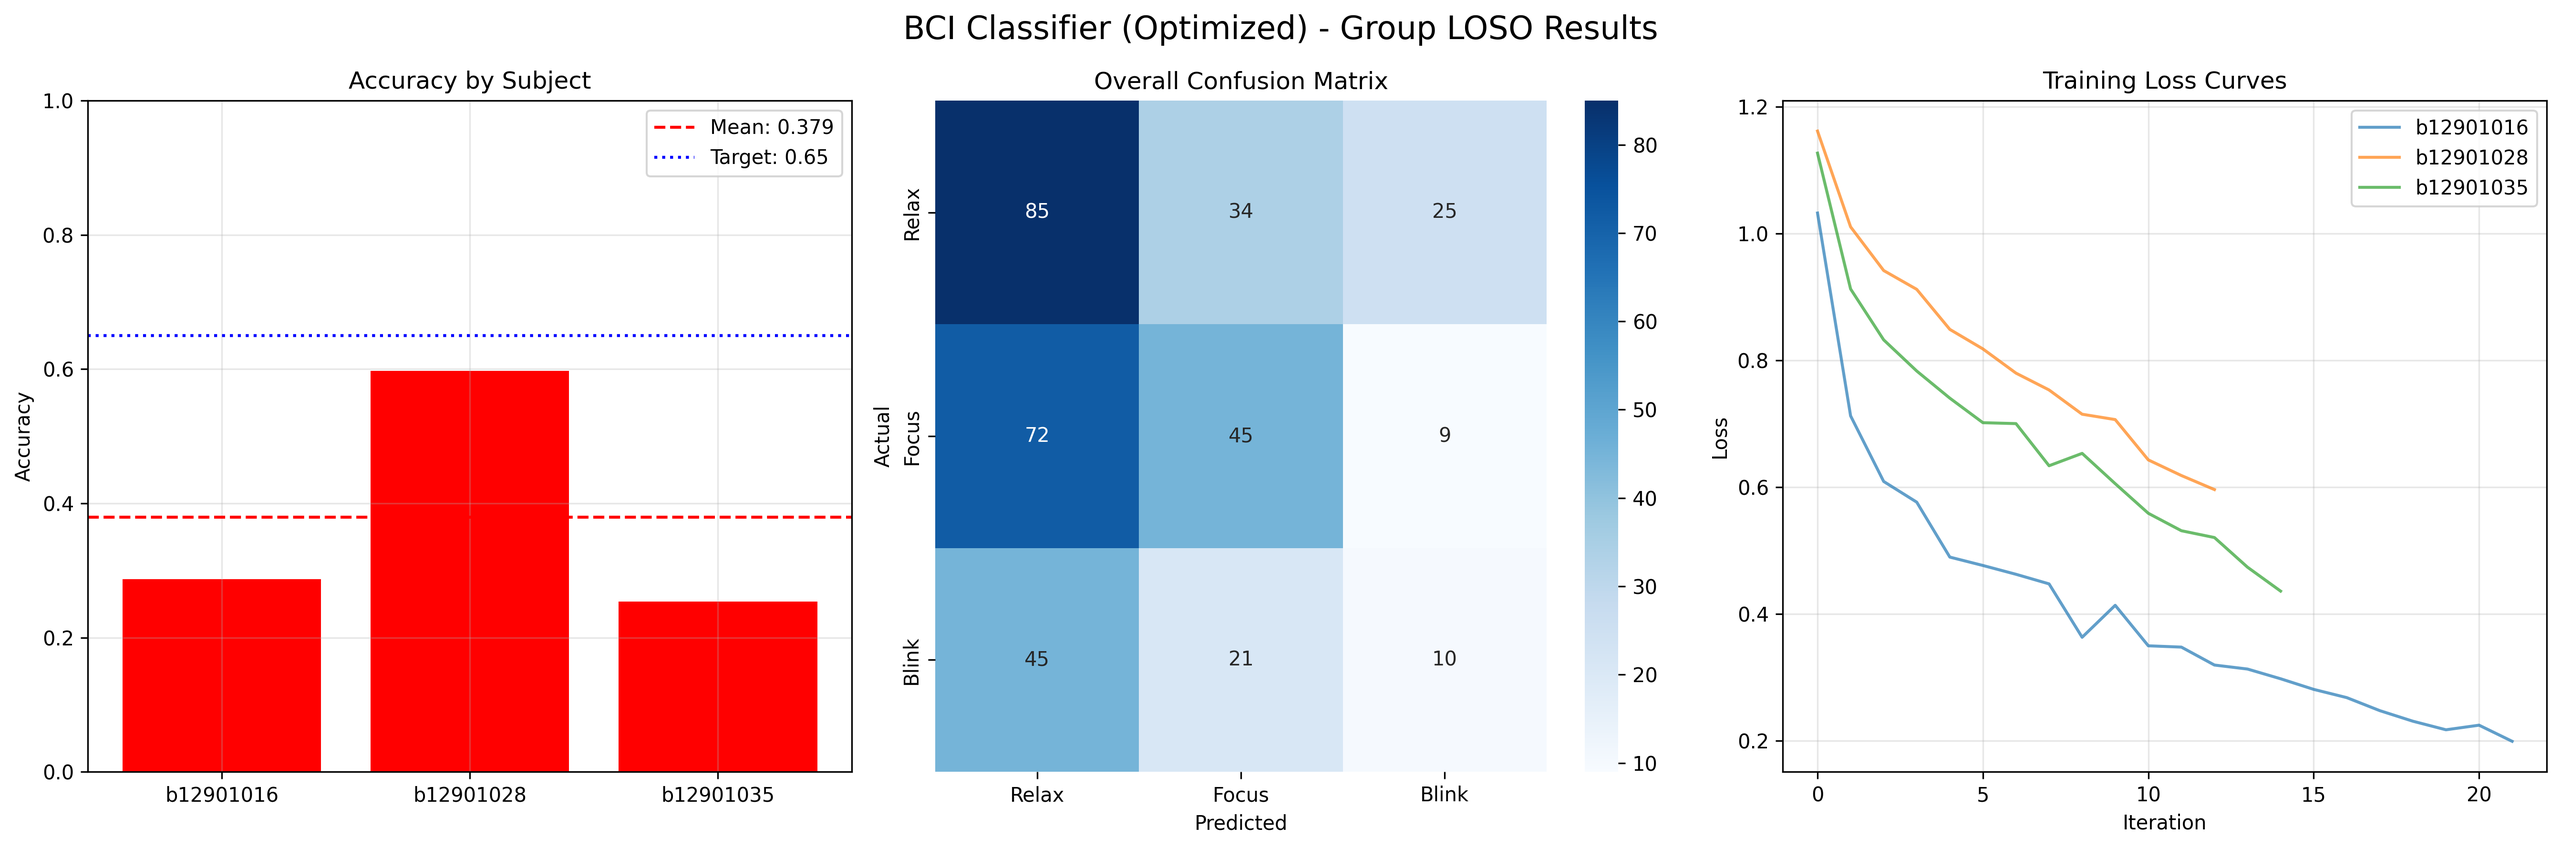
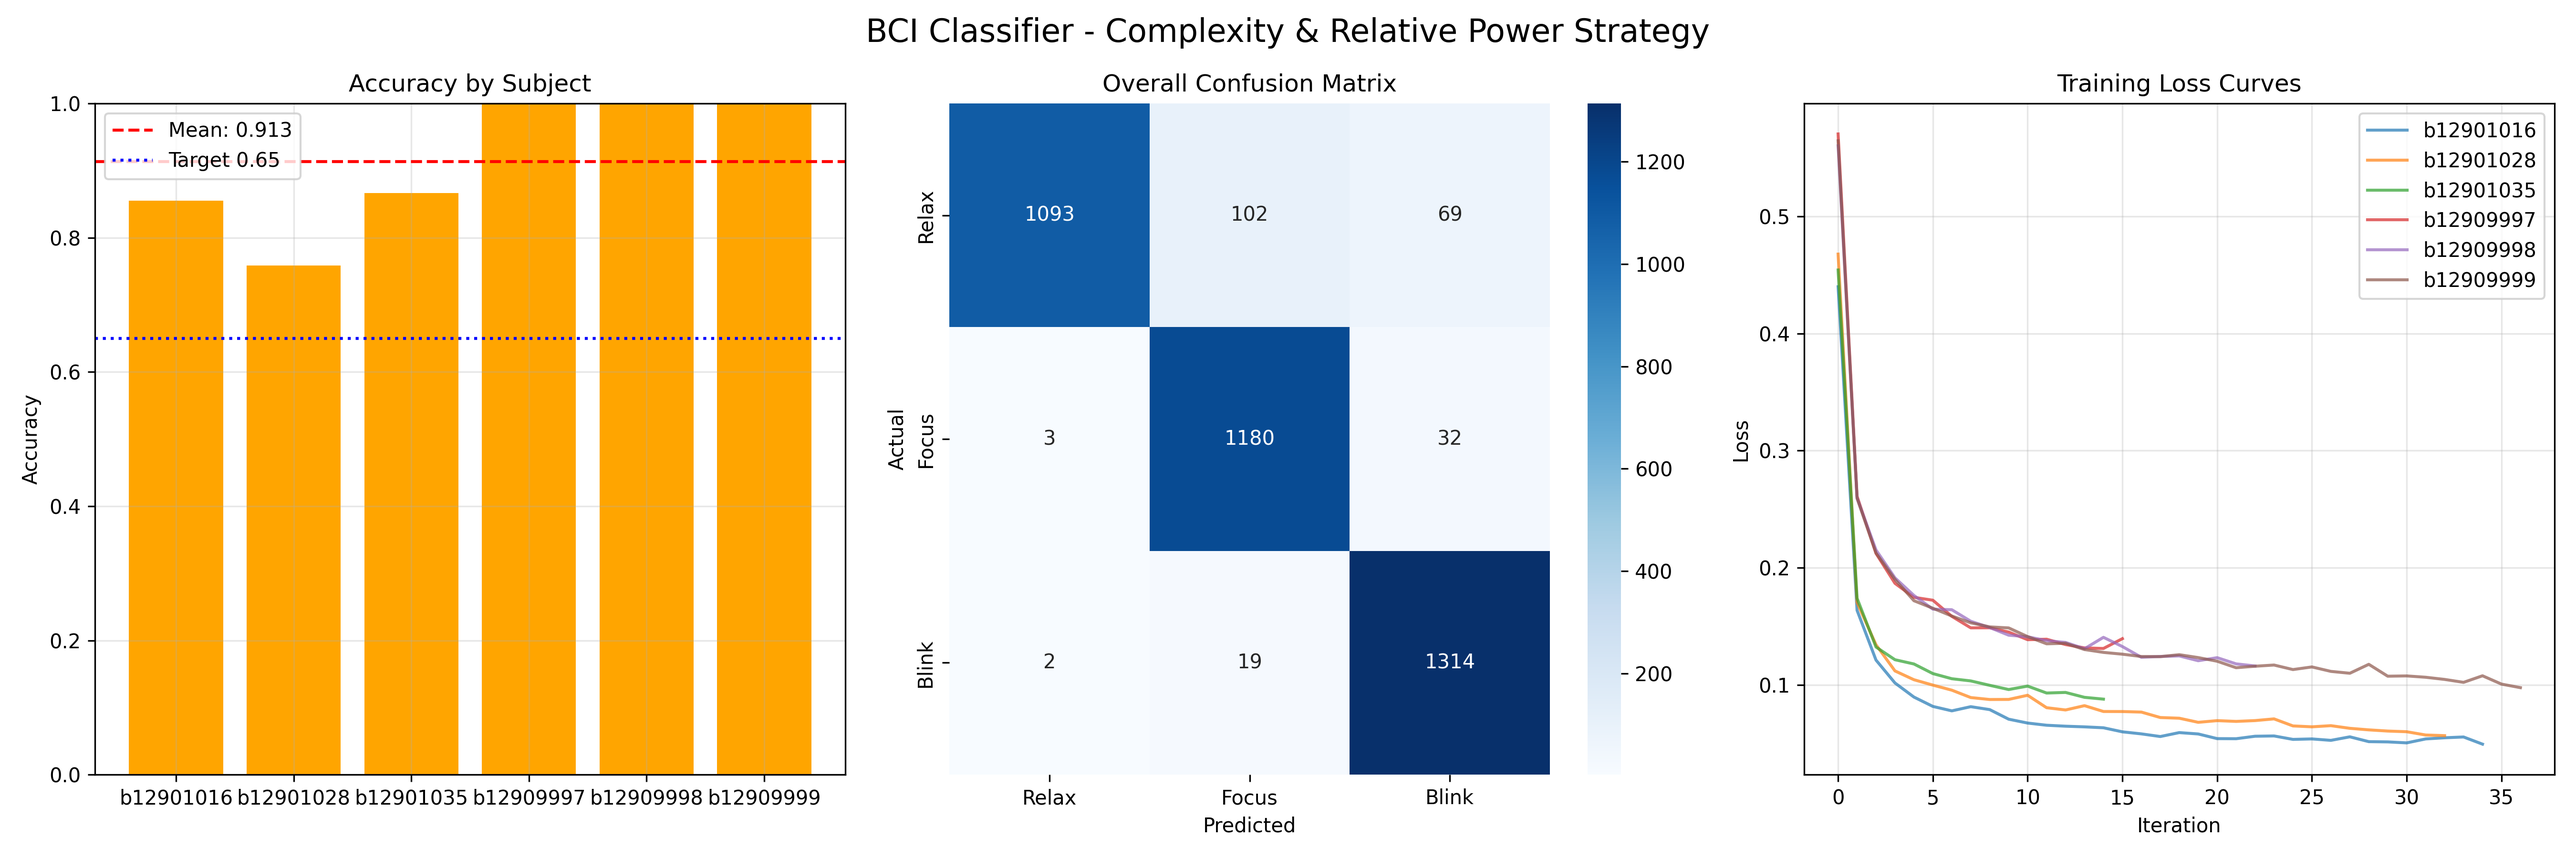
Hjorth Complexity and specialized blink
Hjorth Complexity to distinguish relax and focus, and specialized blink by using filter

diff --git a/main.py b/main.py
@@ -1,6 +1,6 @@
 """
 Brain-Computer Interface MLP Classifier
-FINAL VERSION: DYNAMIC SEGMENTATION (Class-Specific Windowing)
+FINAL VERSION: DYNAMIC SEGMENTATION + HJORTH COMPLEXITY & RELATIVE POWER
 """
 
 import numpy as np
@@ -22,22 +22,22 @@ class Config:
     DATASET_PATH = "bci_dataset_114-2"
     SKIP_SECONDS = 2.0                 # 捨棄每回合開頭前 2 秒
     
-    # === 新增：動態切分策略 (你的完美提案) ===
-    # 策略 A：針對連續狀態 (Relax / Focus)
+    # === 策略 A：針對連續狀態 (Relax / Focus) ===
     RF_SEG_LEN = 4.0                   # 窗口大一點，頻譜解析度才高
     RF_OVERLAP = 0.7                   # 重疊率高一點，資料量才多
-    RF_MAX_THRES = 2500                # 剔除過大雜訊的門檻
+    # 【關鍵修改 1】嚴格過濾！真正的腦波不會超過 800，超過的都是肌肉或眼動雜訊，直接丟棄！
+    RF_MAX_THRES = 800                 
     
-    # 策略 B：針對瞬間狀態 (Blink)
+    # === 策略 B：針對瞬間狀態 (Blink) ===
     BLINK_SEG_LEN = 1.5                # 窗口縮小，聚焦眨眼瞬間，避免被背景稀釋
     BLINK_OVERLAP = 0.0                # 重疊率 0，不重複計算同一個眨眼
-    BLINK_MIN_THRES = 500              # 【關鍵】至少要大於這個值，才承認這個片段「真的有眨眼」
+    BLINK_MIN_THRES = 500              # 必須有大於 500 的突波才承認是眨眼
     
     # MLP model parameters
     HIDDEN_LAYERS = (64, 32)           
     MAX_ITER = 200                     
     LEARNING_RATE = 0.005              
-    ALPHA = 0.02                       
+    ALPHA = 0.05                       # 提高正規化強度，防止模型死背特徵
     ACTIVATION = 'relu'                
     SOLVER = 'adam'                    
     BATCH_SIZE = 128                   
@@ -46,7 +46,7 @@ class Config:
     N_ITER_NO_CHANGE = 15
     SAMPLING_RATE = 512                
     FEATURE_SELECTION = True
-    N_FEATURES_SELECT = 12             
+    N_FEATURES_SELECT = 10             # 精簡為 10 個最強比例與複雜度特徵
     RANDOM_STATE = 42
 
 def create_segments(data, segment_length_samples, overlap_samples, task_type):
@@ -84,7 +84,7 @@ def create_segments(data, segment_length_samples, overlap_samples, task_type):
             # 如果這個小視窗內沒有出現足夠大的突波，代表它切到了「沒眨眼」的空白期
             if peak_amp < Config.BLINK_MIN_THRES:
                 start += step
-                continue # 沒有眨眼的片段直接丟棄，防止標籤污染！
+                continue # 沒有眨眼的片段直接丟棄，防止標籤污染
             
         segments.append(segment_filtered)
         start += step
@@ -92,33 +92,48 @@ def create_segments(data, segment_length_samples, overlap_samples, task_type):
     return segments
 
 def extract_features(segments):
-    """提取不受視窗長度影響的強特徵"""
+    """【關鍵修改 2】全面改用「相對比例」與「波形複雜度 (Hjorth)」"""
     features = []
     for seg in segments:
-        # 1. 時域特徵 (變異數、峰度等本來就與長度無關)
-        log_var = np.log10(np.var(seg) + 1e-7)
-        kurt = kurtosis(seg)
-        sk = skew(seg)
-        zcr = ((seg[:-1] * seg[1:]) < 0).sum() / len(seg)
+        # 1. Hjorth Parameters (Activity, Mobility, Complexity)
+        # 這是對抗單通道雜訊最強的時域特徵，完全不受絕對振幅影響
+        activity = np.var(seg) + 1e-7
+        diff1 = np.diff(seg)
+        diff2 = np.diff(diff1)
         
-        # 2. 頻域特徵 (動態調整 nperseg 以適應不同的 seg_length)
-        nperseg = min(len(seg), int(Config.SAMPLING_RATE * 1.0)) # 固定解析度為 1 秒
+        var_diff1 = np.var(diff1) + 1e-7
+        var_diff2 = np.var(diff2) + 1e-7
+        
+        mobility = np.sqrt(var_diff1 / activity)
+        complexity = np.sqrt(var_diff2 / var_diff1) / mobility
+        
+        # 2. 頻域相對能量 (Relative Power)
+        nperseg = min(len(seg), int(Config.SAMPLING_RATE * 1.0)) 
         freqs, psd = signal.welch(seg, fs=Config.SAMPLING_RATE, nperseg=nperseg)
         
-        theta = np.log10(np.sum(psd[(freqs >= 4) & (freqs < 8)]) + 1e-9)
-        alpha = np.log10(np.sum(psd[(freqs >= 8) & (freqs < 13)]) + 1e-9)
-        beta  = np.log10(np.sum(psd[(freqs >= 13) & (freqs < 30)]) + 1e-9)
-        total = np.log10(np.sum(psd[(freqs >= 1) & (freqs < 45)]) + 1e-9)
+        theta = np.sum(psd[(freqs >= 4) & (freqs < 8)])
+        alpha = np.sum(psd[(freqs >= 8) & (freqs < 13)])
+        beta  = np.sum(psd[(freqs >= 13) & (freqs < 30)])
+        total_power = theta + alpha + beta + 1e-9
         
-        rel_beta = beta - total
-        mobility = np.sqrt(np.var(np.diff(seg)) / (np.var(seg) + 1e-7))
+        # 轉換為百分比 (0~1 之間)，消除個體電壓大小差異
+        rel_theta = theta / total_power
+        rel_alpha = alpha / total_power
+        rel_beta  = beta / total_power
+        
+        # 專注/放鬆黃金比例
+        beta_alpha_ratio = beta / (alpha + 1e-9)
+        
+        # 3. 輔助特徵 (主要為了完美保留 Blink 的高辨識度)
+        kurt = kurtosis(seg)
+        p2p_norm = np.ptp(seg) / (np.std(seg) + 1e-7) # 波峰因數 (Crest Factor)
         
         current_feature = [
-            log_var, kurt, sk, zcr, mobility,
-            theta, alpha, beta, rel_beta, 
-            beta - alpha,
-            np.ptp(seg) / (np.std(seg) + 1e-7),
-            np.max(np.abs(seg))
+            mobility, complexity, 
+            rel_theta, rel_alpha, rel_beta, beta_alpha_ratio,
+            kurt, p2p_norm,
+            np.log10(activity),  # 總能量取對數
+            np.max(np.abs(seg))  # 絕對最大值 (對 Blink 還是很有效)
         ]
         features.append(current_feature)
     return np.array(features)
@@ -128,7 +143,6 @@ def load_all_subjects():
     if not os.path.exists(Config.DATASET_PATH): return None, None, None
     subject_folders = sorted([f.path for f in os.scandir(Config.DATASET_PATH) if f.is_dir()])
     
-    # 計算兩套切割參數的樣本數
     rf_seg_len = int(Config.RF_SEG_LEN * Config.SAMPLING_RATE)
     rf_overlap = int(rf_seg_len * Config.RF_OVERLAP)
     blk_seg_len = int(Config.BLINK_SEG_LEN * Config.SAMPLING_RATE)
@@ -152,7 +166,6 @@ def load_all_subjects():
                                 except ValueError: pass 
                     data = np.array(clean_data)
                     
-                    # 依據任務類型套用不同的切割策略
                     if task in [1, 2]:
                         segs = create_segments(data, rf_seg_len, rf_overlap, task)
                     else:
@@ -233,7 +246,7 @@ def leave_one_subject_out_validation():
 
 def plot_results(results):
     fig, axes = plt.subplots(1, 3, figsize=(18, 6))
-    fig.suptitle('BCI Classifier - Dynamic Segmentation Strategy', fontsize=16)
+    fig.suptitle('BCI Classifier - Complexity & Relative Power Strategy', fontsize=16)
     
     axes[0].bar(results['subject_names'], results['accuracies'], color='orange')
     axes[0].axhline(y=np.mean(results['accuracies']), color='r', linestyle='--', label=f'Mean: {np.mean(results["accuracies"]):.3f}')

diff --git a/plotnew.py b/plotnew.py
@@ -1,0 +1,87 @@
+import numpy as np
+import matplotlib.pyplot as plt
+import os
+import glob
+
+def plot_task_fixed_y(dataset_path, student_id, rounds, start_sec=8, end_sec=13, fs=512):
+    """
+    固定 Y 軸範圍並在所有子圖間共用 Y 軸，支援動態數量的回合 (Rounds)
+    """
+    tasks = [1, 2, 3]
+    task_names = {1: "Relax", 2: "Focus", 3: "Blink"}
+
+    start_idx = int(start_sec * fs)
+    end_idx = int(end_sec * fs)
+
+    # === 修改 1：動態根據傳入的 rounds 數量決定欄數 ===
+    n_tasks = len(tasks)
+    n_rounds = len(rounds)
+    
+    # 為了容納 10 個 column，我們把圖片寬度動態拉長 (每個 round 寬度約 2.5，最多不超過 25)
+    fig_width = min(2.5 * n_rounds, 25)
+    fig, axes = plt.subplots(n_tasks, n_rounds, figsize=(fig_width, 6), sharex=True, sharey=True)
+    fig.suptitle(f"EEG Segment (Fixed Y): {student_id} (Rounds: {rounds[0]}~{rounds[-1]})", fontsize=16)
+
+    for i, task_id in enumerate(tasks):
+        for j, round_id in enumerate(rounds):
+            # 確保 axes 的索引正確 (即使只有 1 個 round 也能處理)
+            if n_tasks == 1 and n_rounds == 1: ax = axes
+            elif n_tasks == 1: ax = axes[j]
+            elif n_rounds == 1: ax = axes[i]
+            else: ax = axes[i, j]
+                
+            pattern = os.path.join(dataset_path, student_id, f"*_{task_id}_{round_id}.txt")
+            files = glob.glob(pattern)
+            
+            if files:
+                try:
+                    # 加入強健的讀取方式，避免被 \r\n 或壞字元報錯
+                    with open(files[0], 'r', encoding='utf-8', errors='ignore') as file:
+                        clean_data = [float(line.strip()) for line in file if line.strip()]
+                    raw_data = np.array(clean_data)
+                    
+                    actual_end = min(end_idx, len(raw_data))
+                    data_slice = raw_data[start_idx:actual_end]
+                    time = np.arange(start_idx, actual_end) / fs
+                    
+                    ax.plot(time, data_slice, lw=0.8, color='C'+str(i))
+                    ax.set_title(f"{task_names[task_id]} R{round_id}", fontsize=10)
+                    ax.grid(True, alpha=0.3)
+                    
+                    # === 修改 2：手動固定 Y 軸顯示範圍 ===
+                    # 配合真實的眨眼數據，將範圍拉寬至正負 1500
+                    ax.set_ylim(-1500, 1500) 
+                    
+                except Exception as e:
+                    ax.text(0.5, 0.5, "Load Error", ha='center', va='center', transform=ax.transAxes, color='red')
+            else:
+                ax.text(0.5, 0.5, "No File", ha='center', va='center', transform=ax.transAxes, color='gray')
+                
+            # 隱藏內側的座標軸數字，讓版面更乾淨
+            if i < n_tasks - 1:
+                ax.tick_params(labelbottom=False)
+            if j > 0:
+                ax.tick_params(labelleft=False)
+
+    plt.tight_layout()
+    plt.subplots_adjust(top=0.88) # 留出標題空間
+    return fig
+
+if __name__ == "__main__":
+    # 設定資料夾路徑與學號
+    path = "bci_dataset_114-2"
+    sid = "b12901028" # 可替換為其他組員學號
+    
+    # === 關鍵修改：指定要畫的 Round 列表 ===
+    # 這裡用 range 產生 1 到 10 的列表: [1, 2, 3, 4, 5, 6, 7, 8, 9, 10]
+    target_rounds = list(range(1, 11)) 
+    
+    # 呼叫繪圖函數
+    plot_task_fixed_y(dataset_path=path, student_id=sid, rounds=target_rounds)
+    
+    # 儲存圖片 (會自動命名包含學號)
+    plt.savefig(f'eeg_10_rounds_plot_{sid}.png', dpi=300, bbox_inches='tight')
+    print(f"圖片已儲存為 eeg_10_rounds_plot_{sid}.png")
+    
+    # 顯示圖表
+    plt.show()

diff --git a/makedata.py b/makedata.py
@@ -1,0 +1,49 @@
+import numpy as np
+import os
+
+def generate_synthetic_eeg(subject_id="b12909999"):
+    fs = 512  # 取樣率 [cite: 24]
+    duration = 20  # 總時長 (20s 任務 + 20s 休息) [cite: 214]
+    n_samples = fs * duration
+    t = np.linspace(0, duration, n_samples)
+    
+    output_dir = f"bci_dataset_114-2/{subject_id}"
+    os.makedirs(output_dir, exist_ok=True)
+    
+    for task in [1, 2, 3]:  # 1: Relax, 2: Focus, 3: Blink [cite: 29]
+        for round_idx in range(1, 31):  # 每類別 30 回合 [cite: 218]
+            
+            # 1. 基礎噪音與基線漂移 (Baseline Drift)
+            eeg = np.random.normal(0, 50, n_samples)  # 白噪音
+            drift = 100 * np.sin(2 * np.pi * 0.05 * t)  # 低頻漂移
+            eeg += drift
+            
+            # 2. 注入狀態特徵 (僅針對前 20 秒任務段)
+            task_mask = t <= 20
+            
+            if task == 1:  # Relax: 強 Alpha 波 (10Hz)
+                alpha = 150 * np.sin(2 * np.pi * 10 * t[task_mask])
+                eeg[task_mask] += alpha
+                
+            elif task == 2:  # Focus: 高頻 Beta 波 (20Hz)
+                beta = 60 * np.sin(2 * np.pi * 20 * t[task_mask])
+                eeg[task_mask] += beta
+                
+            elif task == 3:  # Blink: 隨機插入 5 個巨大突波
+                blink_times = np.random.choice(np.where(task_mask)[0], 5, replace=False)
+                for idx in blink_times:
+                    # 模擬 0.2 秒的眨眼脈衝
+                    width = int(0.2 * fs)
+                    if idx + width < n_samples:
+                        pulse = 1200 * np.hanning(width) 
+                        eeg[idx:idx+width] += pulse
+            
+            # 3. 儲存檔案
+            filename = f"{subject_id}_{task}_{round_idx}.txt"
+            filepath = os.path.join(output_dir, filename)
+            np.savetxt(filepath, eeg, fmt='%.0f')
+            
+    print(f"成功生成受試者 {subject_id} 的 90 個虛擬數據檔於 {output_dir}")
+
+if __name__ == "__main__":
+    generate_synthetic_eeg()

diff --git a/plot.py b/plot.py
@@ -1,0 +1,56 @@
+import numpy as np
+import matplotlib.pyplot as plt
+import os
+import glob
+
+def plot_task_fixed_y(dataset_path, student_id, rounds, start_sec=8, end_sec=13, fs=512):
+    """
+    固定 Y 軸範圍並在所有子圖間共用 Y 軸
+    """
+    tasks = [1, 2, 3]
+    rounds = [17, 18, 19]
+    task_names = {1: "Relax", 2: "Focus", 3: "Blink"}
+
+    start_idx = int(start_sec * fs)
+    end_idx = int(end_sec * fs)
+
+    # === 修改 1：加入 sharey=True 讓所有圖表共用 Y 軸尺度 ===
+    fig, axes = plt.subplots(3, 3, figsize=(10, 6), sharex=True, sharey=True)
+    fig.suptitle(f"EEG Segment (Fixed Y): {student_id}", fontsize=14)
+
+    for i, task_id in enumerate(tasks):
+        for j, round_id in enumerate(rounds):
+            ax = axes[i, j]
+            pattern = os.path.join(dataset_path, student_id, f"*_{task_id}_{round_id}.txt")
+            files = glob.glob(pattern)
+            
+            if files:
+                try:
+                    raw_data = np.loadtxt(files[0])
+                    actual_end = min(end_idx, len(raw_data))
+                    data_slice = raw_data[start_idx:actual_end]
+                    time = np.arange(start_idx, actual_end) / fs
+                    
+                    ax.plot(time, data_slice, lw=0.6, color='C'+str(i))
+                    ax.set_title(f"{task_names[task_id]} R{round_id}", fontsize=9)
+                    ax.grid(True, alpha=0.3)
+                    
+                    # === 修改 2：手動固定 Y 軸顯示範圍 ===
+                    # 建議設在 -800 到 800 之間，或是根據你觀察到的最大值調整
+                    ax.set_ylim(-1000, 1000) 
+                    
+                except Exception as e:
+                    ax.text(0.5, 0.5, "Load Error", ha='center', fontsize=8)
+
+    plt.tight_layout(rect=[0, 0, 1, 0.95])
+    plt.show()
+
+# 執行指令
+
+if __name__ == "__main__":
+    student_id = 'b12901035'
+    rounds = [17, 18, 19]
+    start_sec = 8
+    end_sec = 16
+
+    plot_task_fixed_y('bci_dataset_114-2', student_id, rounds, start_sec, end_sec)
